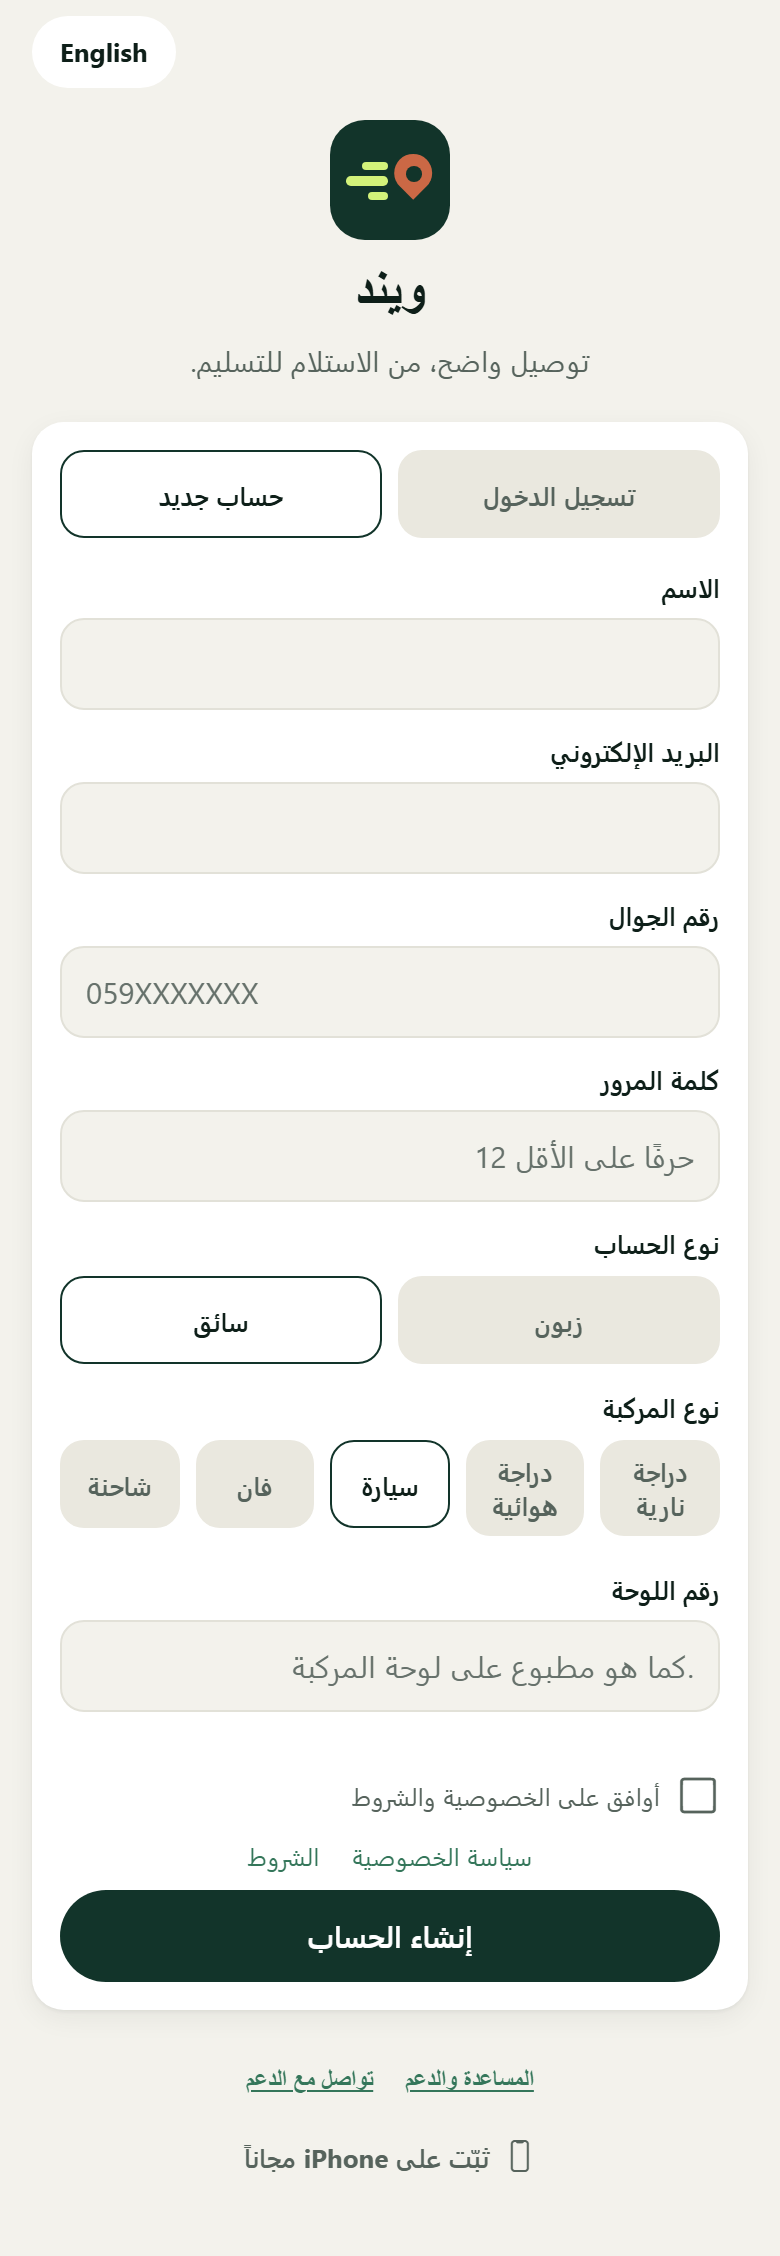
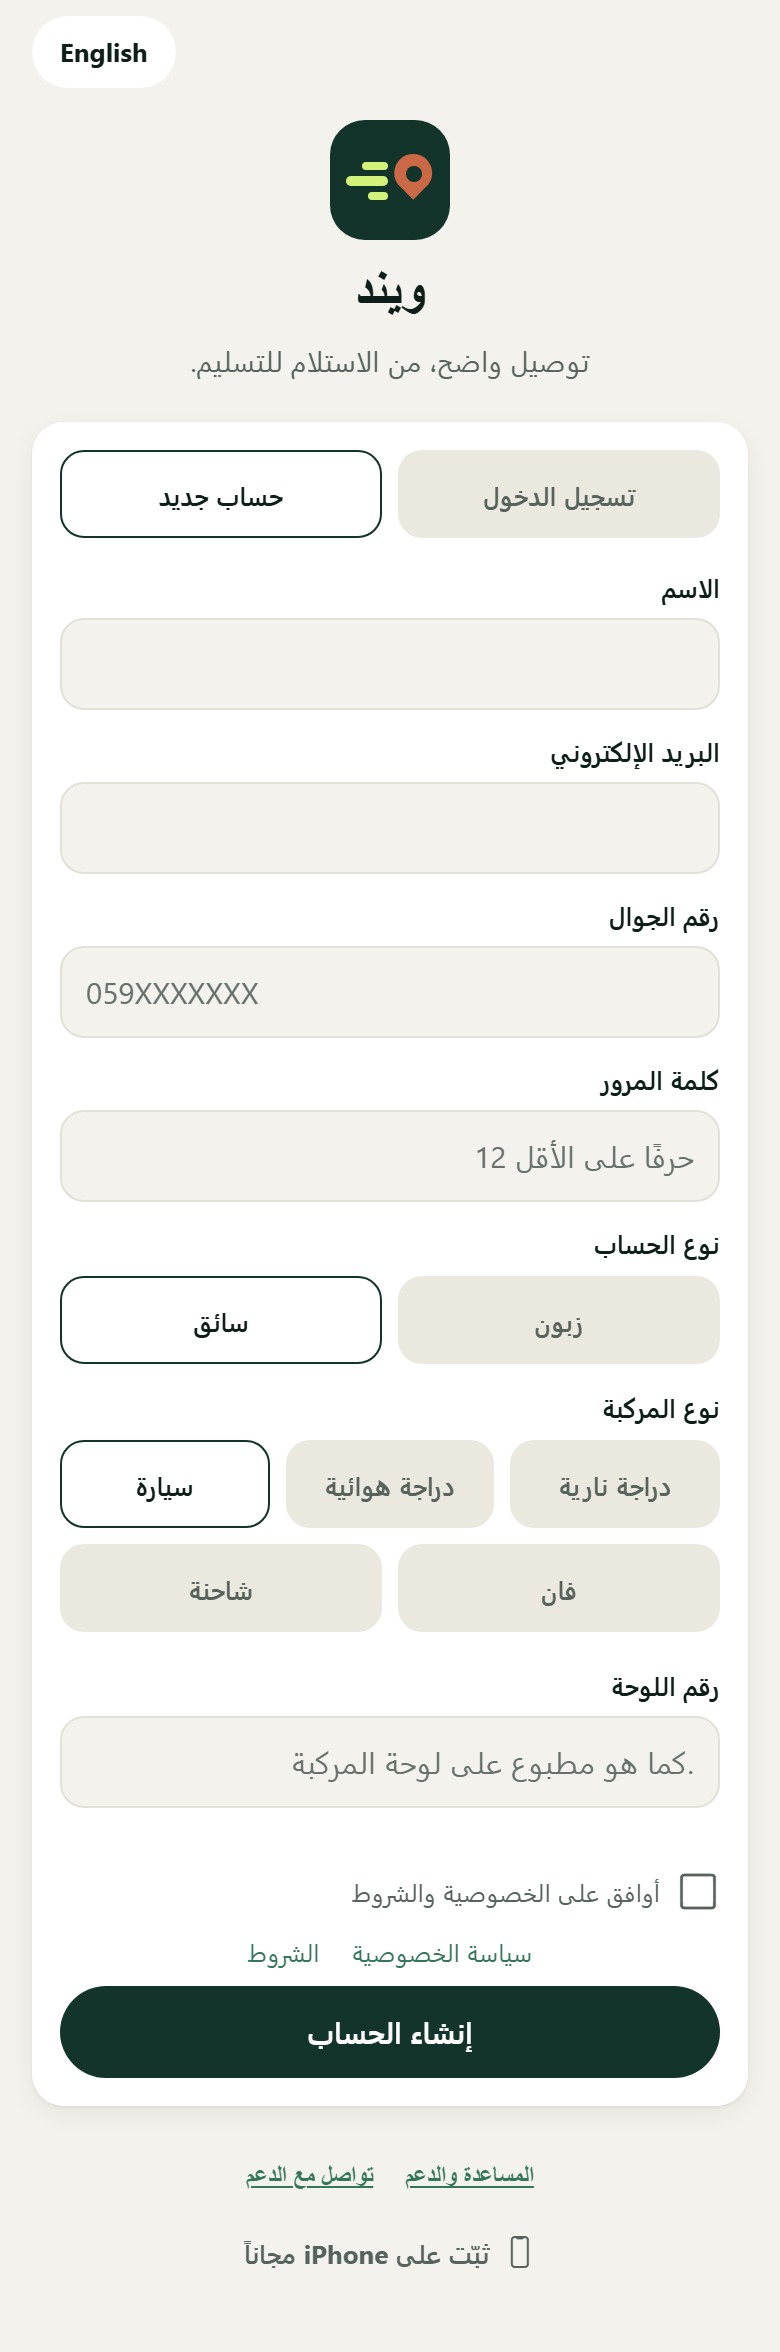
Fix what a first real run on production found
A courier's first Accept after granting location said location was off, because
the permission sheet pauses the app. Alerts name the event instead of a generic
update, with nothing personal on the lock screen. A note about phone codes no
longer sits under a working reset link. Vehicle chips stop splitting words. Text
measures simply, to stop Samsung clipping the last word of a heading.

diff --git a/server/push.ts b/server/push.ts
@@ -30,7 +30,27 @@ export const isDeviceNotRegistered = (error: unknown) => {
     || (typeof value?.message === 'string' && value.message.includes('DeviceNotRegistered'));
 };
 
-/** One Expo push, worded generically: what happened stays inside the app, which re-checks authority when opened.
+/** What the lock screen says: the event only, never a name, address or price. Details stay in the app, which re-checks authority when opened. */
+const pushWords: Record<string, { ar: string; en: string }> = {
+  job: { ar: 'طلب توصيل جديد متاح. افتح ويند لقبوله.', en: 'New delivery job available. Open Wind to take it.' },
+  offer: { ar: 'عرض جديد على طلب. افتح ويند للرد.', en: 'A new offer on a job. Open Wind to respond.' },
+  offer_accepted: { ar: 'قُبل عرضك. افتح ويند للتفاصيل.', en: 'Your offer was accepted. Open Wind for details.' },
+  assigned: { ar: 'قبل سائق طلبك وهو في الطريق.', en: 'A driver took your order and is on the way.' },
+  at_pickup: { ar: 'وصل السائق إلى نقطة الاستلام.', en: 'Your driver has reached the pickup.' },
+  in_transit: { ar: 'طلبك في الطريق. جهّز رمز التسليم.', en: 'Your order is on its way. Have the handover code ready.' },
+  completed: { ar: 'تم التوصيل. شكراً لاستخدامك ويند.', en: 'Delivered. Thank you for using Wind.' },
+  released: { ar: 'نبحث عن سائق آخر لطلبك.', en: 'Looking for another driver for your order.' },
+  cancelled: { ar: 'أُلغي الطلب. افتح ويند للتفاصيل.', en: 'The order was cancelled. Open Wind for details.' },
+  message: { ar: 'رسالة جديدة بخصوص طلبك.', en: 'New message about your order.' },
+  on_hold: { ar: 'طلبك متوقف مؤقتاً. افتح ويند للتفاصيل.', en: 'Your order is on hold. Open Wind for details.' },
+  returning: { ar: 'يعود طلبك إلى المرسل. جهّز رمز الإرجاع.', en: 'Your order is coming back. Have the return code ready.' },
+  returned: { ar: 'أُعيد الطلب إلى المرسل.', en: 'The order was returned to the sender.' },
+  decided: { ar: 'صدر قرار بخصوص طلبك. افتح ويند.', en: 'A decision was made on your job. Open Wind.' },
+  approved: { ar: 'تمت الموافقة على حسابك. يمكنك استلام الطلبات الآن.', en: 'Your account is approved. You can take jobs now.' },
+};
+const pushBody = (kind: unknown, lang: unknown) => { const words = pushWords[String(kind)]; return lang === 'en' ? words?.en ?? 'You have a new update. Open Wind to view it.' : words?.ar ?? 'لديك تحديث جديد. افتح ويند لعرضه.'; };
+
+/** One Expo push.
  * Real delivery waits for the owner's FCM/APNs credentials and WIND_EXPO_PUSH_ENABLED=1; until then this throws. */
 export async function sendExpoPush(token: { expo_push_token?: unknown }, message: string, ttl: number, urgent: boolean) {
   if (process.env.WIND_EXPO_PUSH_ENABLED !== '1') throw Object.assign(new Error('expo_not_configured'), { providerStatus: 503 });
@@ -38,7 +58,7 @@ export async function sendExpoPush(token: { expo_push_token?: unknown }, message
   const response = await fetch('https://exp.host/--/api/v2/push/send', { method: 'POST', redirect: 'error', signal: AbortSignal.timeout(10_000),
     headers: { Accept: 'application/json', 'Content-Type': 'application/json', ...(process.env.EXPO_ACCESS_TOKEN ? { Authorization: `Bearer ${process.env.EXPO_ACCESS_TOKEN}` } : {}) },
     // channelId names the high-importance channel src/native-push.ts creates, so Android shows a heads-up; priority wakes a dozing phone.
-    body: JSON.stringify([{ to: String(token.expo_push_token), title: 'Wind', body: data.lang === 'en' ? 'You have a new update. Open Wind to view it.' : 'لديك تحديث جديد. افتح ويند لعرضه.',
+    body: JSON.stringify([{ to: String(token.expo_push_token), title: 'Wind', body: pushBody(data.kind, data.lang),
       sound: 'default', ttl, priority: urgent ? 'high' : 'normal', channelId: 'default', data: { kind: data.kind, order: data.order, url: data.url, eventId: data.eventId } }]) });
   const tickets = await response.json().catch(() => null) as { data?: { status?: string; details?: { error?: string } }[] } | null;
   await response.body?.cancel().catch(() => {});

diff --git a/src/ui.tsx b/src/ui.tsx
@@ -182,7 +182,7 @@ export function Txt({ children, variant = 'body', style, center, numberOfLines, 
   const { align, language } = useCopy();
   // T42: OS text scaling stays on, capped so large Arabic/English text grows without clipping the fixed line heights.
   // Keyed by language: Android kept the Arabic width after an in-app switch and clipped "Your current order".
-  return <Text key={language} maxFontSizeMultiplier={1.35} numberOfLines={numberOfLines} selectable={selectable} accessibilityLabel={accessibilityLabel} accessibilityRole={header ? 'header' : undefined} style={[textVariants[variant], { textAlign: center ? 'center' : align }, style]}>{children}</Text>;
+  return <Text key={language} textBreakStrategy="simple" maxFontSizeMultiplier={1.35} numberOfLines={numberOfLines} selectable={selectable} accessibilityLabel={accessibilityLabel} accessibilityRole={header ? 'header' : undefined} style={[textVariants[variant], { textAlign: center ? 'center' : align }, style]}>{children}</Text>;
 }
 
 // Section heading with an optional trailing link ("See all").
@@ -272,11 +272,12 @@ export function Reason({ children }: { children: string }) {
 
 export function Choices<K extends string>({ items, value, onChange, disabled }: { items: { key: K; label: string }[]; value: K; onChange: (key: K) => void; disabled?: boolean }) {
   const { row } = useCopy();
-  return <View style={[styles.choices, { flexDirection: row }]} accessibilityRole="radiogroup">
+  const wraps = items.length > 3; // five vehicles in one row split words: "Motorc/ycle"
+  return <View style={[styles.choices, { flexDirection: row }, wraps && { flexWrap: 'wrap' }]} accessibilityRole="radiogroup">
     {items.map(item => {
       const on = item.key === value;
       return <Pressable key={item.key} accessibilityRole="radio" accessibilityLabel={item.label} aria-checked={on} aria-disabled={disabled} disabled={disabled}
-        onPress={() => onChange(item.key)} style={{ flex: 1 }} hitSlop={{ top: 4, bottom: 4 }}>
+        onPress={() => onChange(item.key)} style={wraps ? { flexGrow: 1, flexBasis: '30%' } : { flex: 1 }} hitSlop={{ top: 4, bottom: 4 }}>
         <Animated.View style={[motion.choice, on && motion.choiceOn]}>
           <Text style={[styles.choiceText, on && { color: palette.ink }]}>{item.label}</Text>
         </Animated.View>

diff --git a/src/driver-work.tsx b/src/driver-work.tsx
@@ -111,17 +111,26 @@ export function DriverWorkProvider({ children }: { children: ReactNode }) {
   // Background permission is a separate, optional action and does not guarantee delivery.
   const prepareTracking = useCallback(async () => {
     if (actor === null || !foreground) return false;
-    const session = apiSessionRevision(), revision = lifecycleRef.current.revision;
+    const session = apiSessionRevision();
+    let revision = lifecycleRef.current.revision;
     const current = () => mounted.current && actorRef.current === actor && lifecycleRef.current.active
       && lifecycleRef.current.revision === revision && apiSessionRevision() === session;
+    // A system sheet pauses the app, which moves the lifecycle revision. The answer still stands if the same courier came straight back.
+    const backFromSheet = async () => {
+      for (let waited = 0; !lifecycleRef.current.active && waited < 2000; waited += 50) await new Promise(done => setTimeout(done, 50));
+      revision = lifecycleRef.current.revision;
+    };
+    const asked = !permission?.granted;
     const value = permission?.granted ? permission : Platform.OS === 'web'
       ? await boundedPermission(requestPermission) : await requestPermission();
+    if (asked) await backFromSheet();
     if (!current() || !value?.granted) return false;
     let enabled = await refreshServices();
     if (!current()) return false;
     if (!enabled && Platform.OS === 'android') {
       try { await Location.enableNetworkProviderAsync(); }
       catch { return false; }
+      await backFromSheet();
       if (!current()) return false;
       enabled = await refreshServices();
     }

diff --git a/src/app/auth.tsx b/src/app/auth.tsx
@@ -34,7 +34,8 @@ export default function Auth() {
   const [phoneCapsFailed, setPhoneCapsFailed] = useState(false);
   const [phoneCapsTry, setPhoneCapsTry] = useState(0);
   const phoneGate = gateOf(phoneCaps, phoneCapsFailed);
-  const phoneNote = phoneGate === 'unavailable' ? c.phone_recovery_unavailable : phoneGate === 'disabled' ? c.phone_recovery_disabled
+  // With an email reset on offer, a note that phone codes are off only reads as if the link above it were broken.
+  const phoneNote = emailReset || emailResetLink ? null : phoneGate === 'unavailable' ? c.phone_recovery_unavailable : phoneGate === 'disabled' ? c.phone_recovery_disabled
     : phoneGate === 'failed' ? c.phone_status_failed : null;
   const [phone, setPhone] = useState('');
   const [password, setPassword] = useState('');

diff --git a/docs/PILOT.md b/docs/PILOT.md
@@ -1,0 +1,55 @@
+# Running the Wind pilot
+
+For the owner. Parcels only, one city first, couriers and customers you know.
+
+## Before the first invite
+
+1. Sign in on the admin account and open **Settings**: confirm the ₪20 parcel price and the commission.
+2. Do one real delivery yourself with one courier, a real parcel and real cash.
+3. Keep a simple record of cash handed over, on paper or in WhatsApp. Backups run nightly, so a server failure can lose up to a day.
+
+## Inviting people
+
+Send the APK link with this message. Android asks to allow installing from this source once.
+
+> السلام عليكم، هذه نسخة تجريبية من تطبيق ويند لتوصيل الطرود. حمّل التطبيق من الرابط، وسجّل برقم جوالك وبريدك الصحيح (نستخدم البريد لاسترجاع كلمة المرور).
+> الدفع نقدًا للسائق. أعطِ السائق رمز التسليم عند الاستلام فقط.
+> لأي ملاحظة: «حسابي» ← «المساعدة والدعم» ← «أرسل رأيك في التطبيق». رأيك يهمنا جدًا.
+
+iPhone users can use the web app at <https://windapi236.swedencentral.cloudapp.azure.com> in the browser. Closed-app alerts there depend on the browser.
+
+## Couriers
+
+1. The courier registers in the app and chooses to work as a driver.
+2. Open **Users** in admin, check who they are, and approve them. Nobody takes jobs until approved.
+3. Tell them: keep location on, allow background location, and do not force-close the app while on a job.
+4. Routes stay inside the West Bank but know nothing of permits, gates or checkpoints. The courier decides the road. Drive times are optimistic.
+
+## Every day
+
+- **Dashboard:** orders stuck searching, and the backup warning.
+- **Cash:** owed against what was handed over.
+- **Phone two or three users.** Feedback arrives on WhatsApp +972597127547.
+
+## What to ask them
+
+Did the courier find the place? Was the price fair for the courier? Did the alert arrive with the app closed? What confused you? Would you use it again?
+
+Watch for: the flat ₪20 on long trips, password-reset email landing in spam, and couriers missing jobs because Android killed the app.
+
+## When something goes wrong
+
+| Problem | Do this |
+|---|---|
+| Forgot password | "Forgot password" on sign-in sends a link. Check spam. Otherwise reset from admin **Users**. |
+| Courier blocked while carrying a parcel | Phone them: they are not told. |
+| Customer cannot be blocked | They have an open order. Cancel it or wait for delivery. |
+| Server down | Nothing alerts you yet. See `docs/operations/restore.md`. |
+
+## Known limits of this pilot
+
+- Phone numbers and email are not verified at signup, so a mistyped email can lose an account to whoever owns that address. Only invite people you know.
+- TalkBack has never been tried by a person.
+- The Firebase project is named `wind-development` and is used for production alerts.
+- Rides and freight are off. To turn them on, set `WIND_ENABLED_SERVICES=parcel,ride,freight` in `/srv/wind-api.env` and redeploy. They have only been tested in Chrome on the phone, with simulated GPS.
+- Only the owner's legal review can say whether this may run commercially; none has been done.
